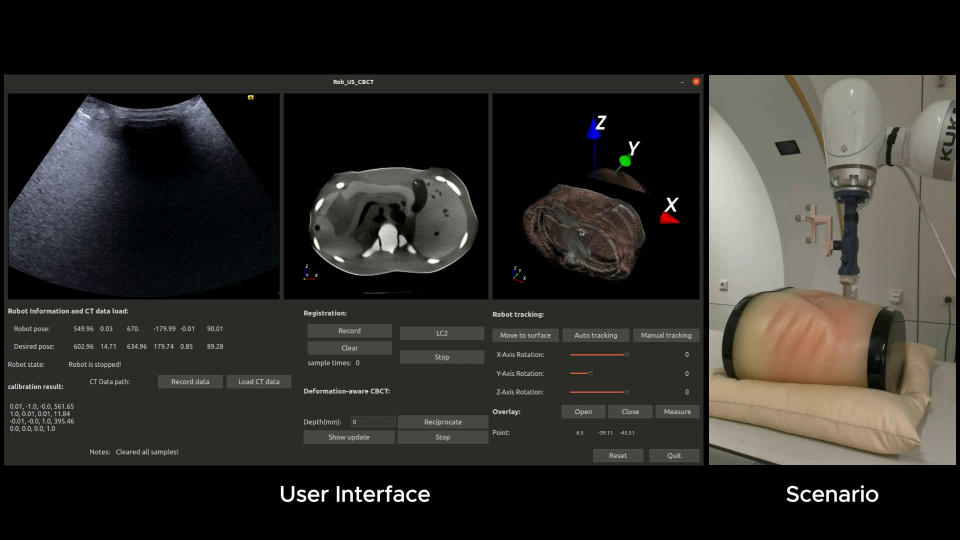
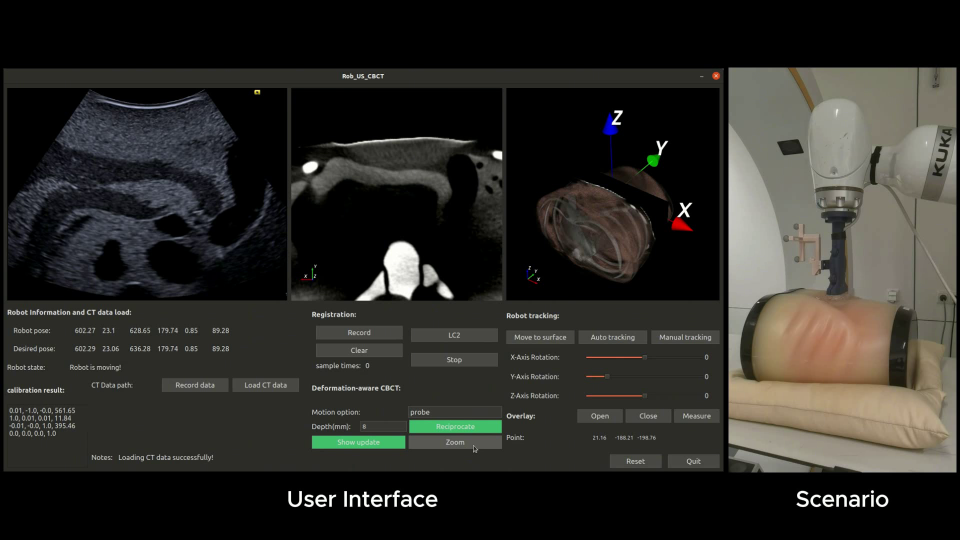
Update README demo preview clip

diff --git a/README.md b/README.md
@@ -12,6 +12,8 @@ Code repository:
 
 ## Demo Video
 
+Animated preview from the demo video, starting at 45 s:
+
 <a href="assets/robotic_us_cbct_alive.mp4">
   <img src="assets/robotic_us_cbct_alive_preview.gif" alt="Robotic Ultrasound Makes CBCT Alive demo video" width="720">
 </a>
